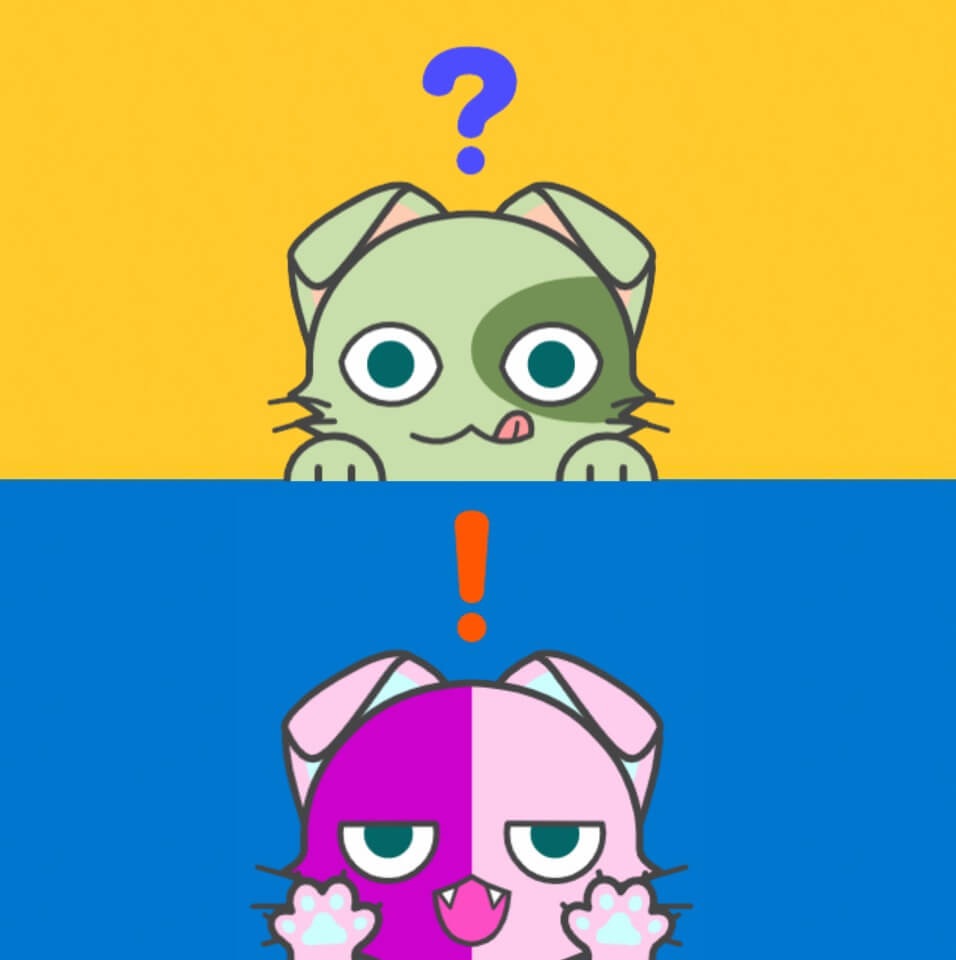
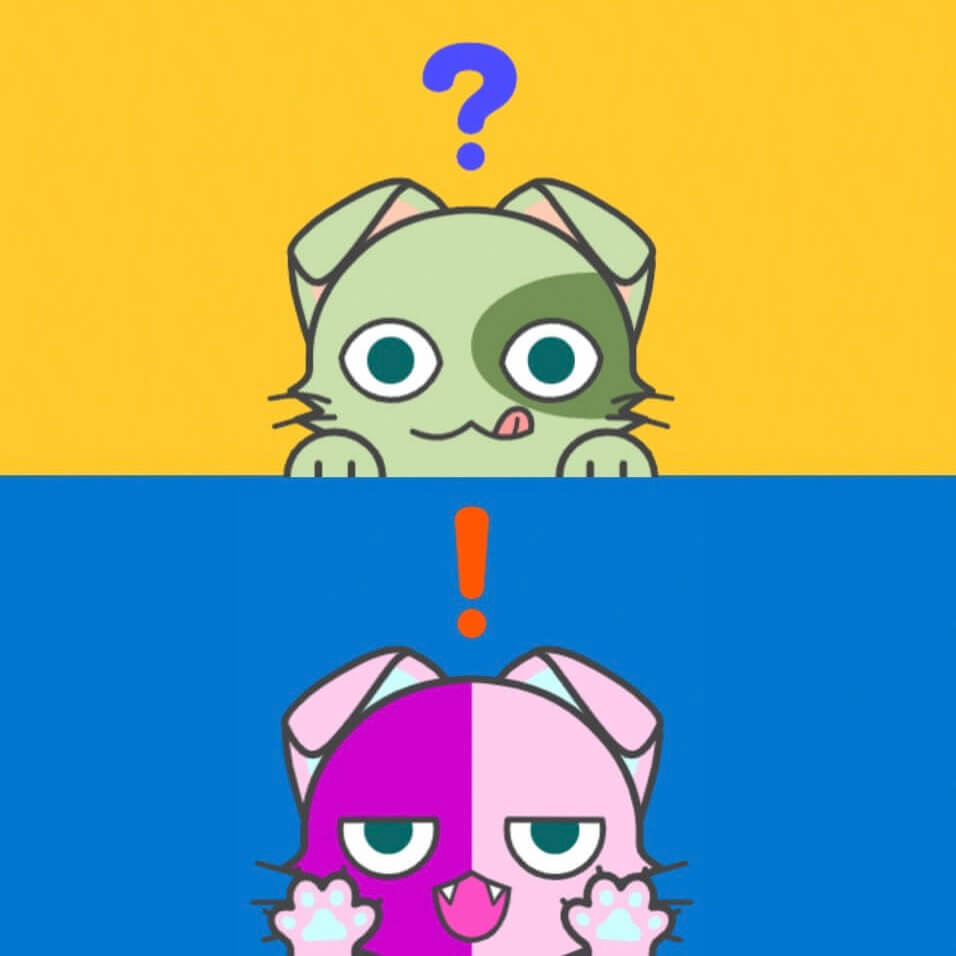
1周年ロゴに変更、他

diff --git a/nuxt.config.ts b/nuxt.config.ts
@@ -21,7 +21,7 @@ export default {
       { property: 'og:type', content: 'website' },
       { property: 'og:title', content: 'Web猫ブログ' },
       { property: 'og:description', content: '2018年10月より運営の当ブログを始め、Vue.jsやNuxtを使ったフロントエンドを中心に設計・開発しています。' },
-      { property: 'og:image', content: 'https://webneko.dev/kuroneko.png' },
+      { property: 'og:image', content: 'https://webneko.dev/kuroneko1th.png' },
       { property: 'twitter:card', content: 'summary' },
       { property: 'twitter:site', content: '@jiyuujinlab' }
     ],
@@ -29,7 +29,7 @@ export default {
       {
         rel: 'icon',
         type: 'image/x-icon',
-        href: 'kuroneko.png'
+        href: 'kuroneko1th.png'
       }
     ],
     script: [
